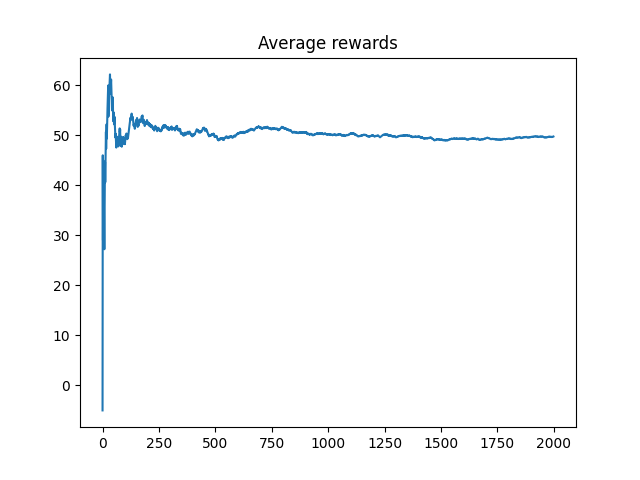
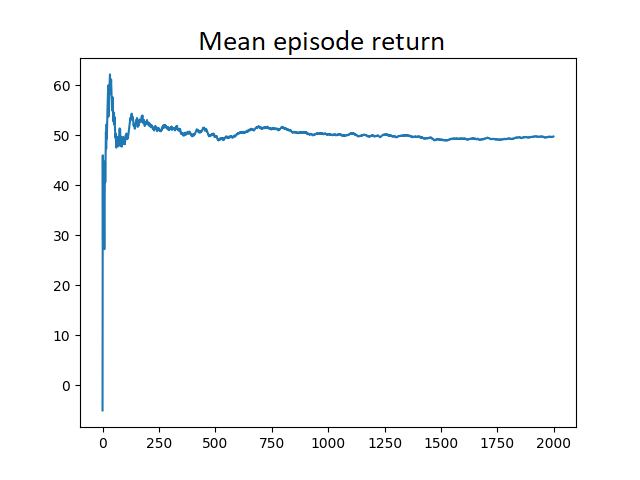
updated README.md

Changed region(s): [[0.3125, 0.0625, 0.6875, 0.125]]

diff --git a/train_rl.py b/train_rl.py
@@ -55,6 +55,6 @@ if __name__ == "__main__":
         average.append(sum(episode_rew) / (i + 1))
 
     plt.figure()
-    plt.title("Average rewards")
+    plt.title("Mean episode return")
     plt.plot(average)
     plt.savefig('./images/new_reward_per_episode.png')

diff --git a/README.md b/README.md
@@ -15,17 +15,43 @@ pip install -r requirements.txt
 ## Run code
 
 ```
-python main.py
+python main.py -v -p0 {naive,minmax,random,risky,montecarlo,evolutionary,rl} -p1 {naive,minmax,random,risky,montecarlo,evolutionary,rl}
+```
+
+To run a tournament (all vs all except random):
+
+```
+python main.py -p0 random -p1 random -t -v
+```
+
+To run a tournament (all vs random):
+
+```
+python main.py -p0 random -p1 random -tr -v
+```
+
+To run a benchmark over 1000 games:
+
+```
+python main.py -v -b -p0 {naive,minmax,random,risky,montecarlo,evolutionary,rl} -p1 {naive,minmax,random,risky,montecarlo,evolutionary,rl}
 ```
 
 ### Usage
 
 ```
 user@host $ python .\main.py -h
-usage: main.py [-h] [-v] [-d]
+usage: main.py [-h] [-b] [-t] [-tr] -p0 {naive,minmax,random,risky,montecarlo,evolutionary,rl} -p1 {naive,minmax,random,risky,montecarlo,evolutionary,rl} [-v] [-d]
 
 optional arguments:
-  -h, --help     show this help message and exit
-  -v, --verbose  increase log verbosity
-  -d, --debug    log debug messages (same as -vv)
+  -h, --help            show this help message and exit
+  -b, --benchmark       execute 100 iterations
+  -t, --tournament      execute a tournament among all agents except random
+  -tr, --tournament_against_random
+                        execute a tournament of all agents against random
+  -p0 {naive,minmax,random,risky,montecarlo,evolutionary,rl}
+                        selects player 0
+  -p1 {naive,minmax,random,risky,montecarlo,evolutionary,rl}
+                        selects player 1
+  -v, --verbose         increase log verbosity
+  -d, --debug           log debug messages (same as -vv)
 ```
